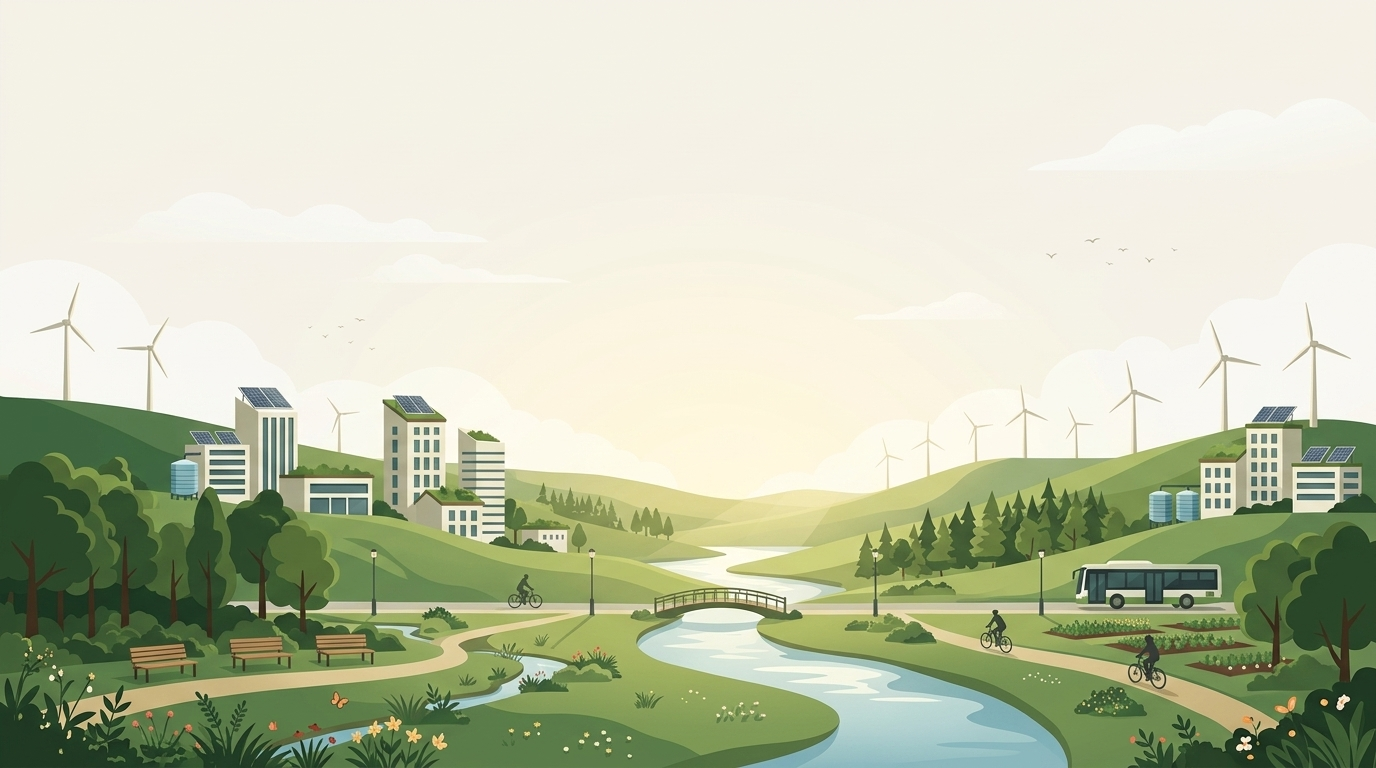
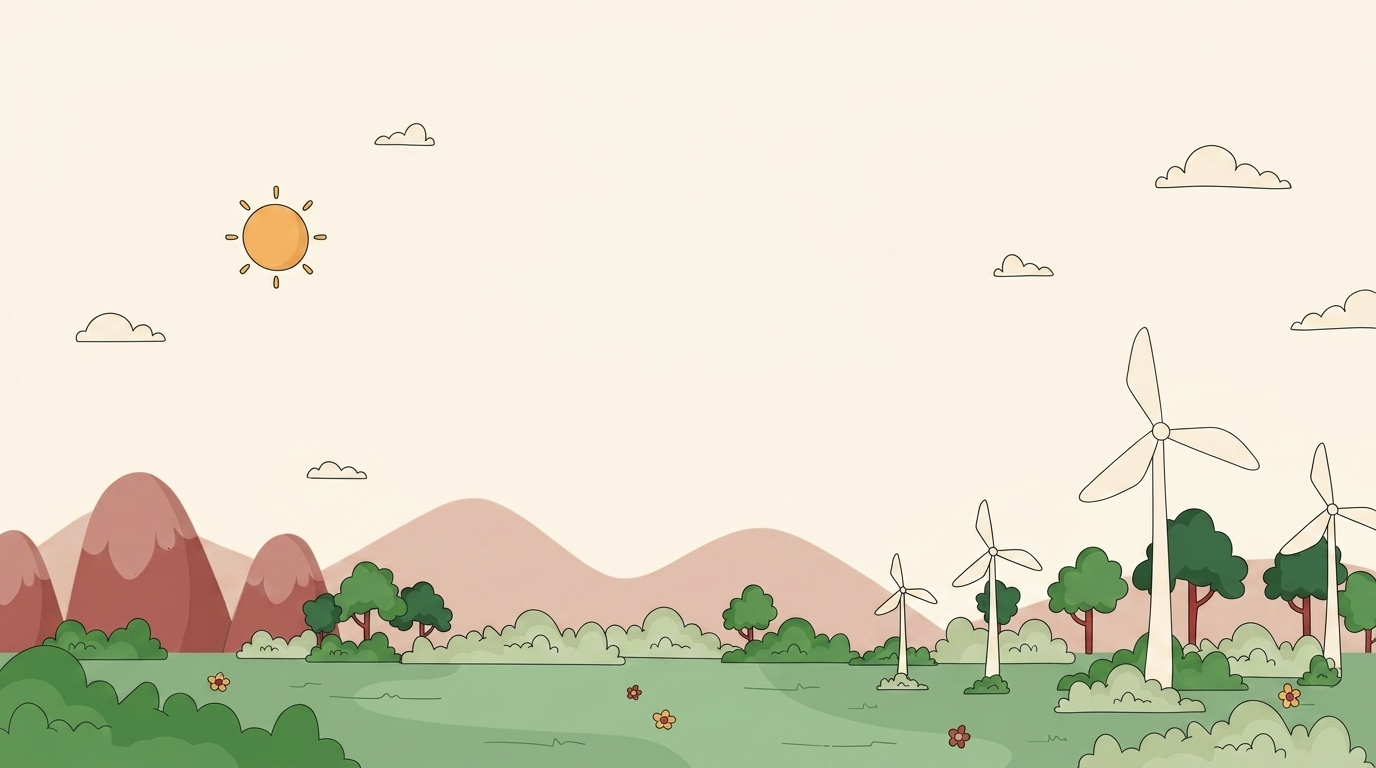
style: Apply high-quality eco-friendly hero background image to landing and login pages

diff --git a/public/style.css b/public/style.css
@@ -290,7 +290,10 @@ textarea {
   width: 100vw;
   height: 100vh;
   z-index: 9999;
-  background-color: var(--color-bg);
+  background-image: url('hero_background.jpg');
+  background-size: cover;
+  background-position: center bottom;
+  background-repeat: no-repeat;
   display: flex;
   flex-direction: column;
   overflow-y: auto;
